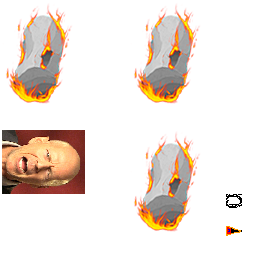
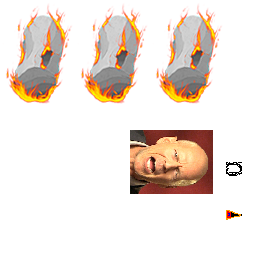
Noddegamra v.0.35

diff --git a/games/noddegamra/scripts/c3runtime.js b/games/noddegamra/scripts/c3runtime.js
@@ -441,6 +441,18 @@ self["C3_Shaders"] = {};
 
 "use strict";{function a(a){return a=Math.floor(a),8===a?"backspace":9===a?"tab":13===a?"enter":16===a?"shift":17===a?"control":18===a?"alt":19===a?"pause":20===a?"capslock":27===a?"esc":33===a?"pageup":34===a?"pagedown":35===a?"end":36===a?"home":37===a?"\u2190":38===a?"\u2191":39===a?"\u2192":40===a?"\u2193":45===a?"insert":46===a?"del":91===a?"left window key":92===a?"right window key":93===a?"select":96===a?"numpad 0":97===a?"numpad 1":98===a?"numpad 2":99===a?"numpad 3":100===a?"numpad 4":101===a?"numpad 5":102===a?"numpad 6":103===a?"numpad 7":104===a?"numpad 8":105===a?"numpad 9":106===a?"numpad *":107===a?"numpad +":109===a?"numpad -":110===a?"numpad .":111===a?"numpad /":112===a?"F1":113===a?"F2":114===a?"F3":115===a?"F4":116===a?"F5":117===a?"F6":118===a?"F7":119===a?"F8":120===a?"F9":121===a?"F10":122===a?"F11":123===a?"F12":144===a?"numlock":145===a?"scroll lock":186===a?";":187===a?"=":188===a?",":189===a?"-":190===a?".":191===a?"/":192===a?"'":219===a?"[":220===a?"\\":221===a?"]":222===a?"#":223===a?"`":String.fromCharCode(a)}C3.Plugins.Keyboard.Exps={LastKeyCode(){return this._triggerKey},StringFromKeyCode(b){return a(b)},TypedKey(){return this._typedKeyMap[this._triggerKey]||""}}}
 
+"use strict";C3.Plugins.AdvancedRandom=class extends C3.SDKPluginBase{constructor(a){super(a)}Release(){super.Release()}};
+
+"use strict";C3.Plugins.AdvancedRandom.Type=class extends C3.SDKTypeBase{constructor(a){super(a)}Release(){super.Release()}OnCreate(){}};
+
+"use strict";{class a{constructor(a){this.mode=a,this.stops=[]}AddStop(a,b){switch(this.mode){case"rgb":b=this._CreateStopRGB(b);break;case"float":b=this._CreateStopFloat(b);}for(let c=this.stops.length;c--;)if(a>this.stops[c][0])return void this.stops.splice(c+1,0,[a,b]);this.stops.push([a,b])}_CreateStopFloat(a){return[a]}_CreateStopRGB(a){const c=C3.GetRValue(a),d=C3.GetGValue(a),e=C3.GetBValue(a);return[a,c,d,e,C3.GetAValue(a)]}_SampleFloat(c,a,b){return C3.lerp(c[0],a[0],b)}_SampleRGB(c,a,b){return C3.PackRGBAEx(C3.lerp(c[1],a[1],b),C3.lerp(c[2],a[2],b),C3.lerp(c[3],a[3],b),C3.lerp(c[4],a[4],b))}Sample(c){const d=this.stops,e=d[0],f=d.length,g=d[f-1];if(c<e[0])return e[1][0];if(c>g[0])return g[1][0];let h=null,a=e;for(let b=1;b<f&&(h=a,a=d[b],!(a[0]>c));b++);switch(c=C3.clamp((c-h[0])/(a[0]-h[0]),0,1),this.mode){case"rgb":return this._SampleRGB(h[1],a[1],c);case"float":return this._SampleFloat(h[1],a[1],c);}}}C3.Plugins.AdvancedRandom.Instance=class extends C3.SDKInstanceBase{constructor(a,b){super(a),this._core=null,this._currentSeed=null,this._octaves=1,this._gradients=new Map,this._currentGradient=null;const c=b[0],d=b[1];this._CreateGradient("default","rgb"),this._AddGradientStop(0,C3.PackRGBEx(0,0,0)),this._AddGradientStop(1,C3.PackRGBEx(1,1,1)),this._runtime.AddLoadPromise(this._InitWASMModule(c,d))}async _InitWASMModule(a,b){const c=this._runtime.GetAssetManager().GetLocalUrlAsBlobUrl("noise.wasm"),d=await fetch(c),e=await WebAssembly.instantiateStreaming(d);this._core=e.instance.exports,""===a&&(a=this._RandomSeed(10)),this._UpdateSeed(a),b&&this._runtime.SetRandomNumberGeneratorCallback(()=>this._core.randomXorshiro(0,1))}_RandomSeed(a){const b=[];for(;a--;)b.push(String.fromCharCode(Math.round(Math.random()*25)+65));return b.join("")}_UpdateSeed(a){this._currentSeed=a;let b=5381;for(let c=0,d=a.length;c<d;c++)b=(b<<5)+b+a.charCodeAt(c);b>>>=0,this._core.seed(b)}_CreateGradient(b,c){const d=new a(c);this._gradients.set(b,d),this._currentGradient=d}_AddGradientStop(a,b){const c=this._currentGradient;null===c||c.AddStop(a,b)}Release(){super.Release()}}}
+
+"use strict";C3.Plugins.AdvancedRandom.Cnds={};
+
+"use strict";C3.Plugins.AdvancedRandom.Acts={SetSeed(a){this._UpdateSeed(a)},SetOctaves(a){this._octaves=C3.clamp(0|a,1,16)},CreateGradient(a,b){const c=["rgb","float"][b];this._CreateGradient(a,c)},SetGradient(a){const b=this._gradients.get(a);this._currentGradient=b||null},AddStop(a,b){this._AddGradientStop(a,b)}};
+
+"use strict";{const a=.013;C3.Plugins.AdvancedRandom.Exps={Classic2d(b,c){return this._core.classic2d(b*a,c*a,this._octaves)},Classic3d(b,c,d){return this._core.classic3d(b*a,c*a,d*a,this._octaves)},Billow2d(b,c){return this._core.billow2d(b*a,c*a,this._octaves)},Billow3d(b,c,d){return this._core.billow3d(b*a,c*a,d*a,this._octaves)},Ridged2d(b,c){return this._core.ridged2d(b*a,c*a,this._octaves)},Ridged3d(b,c,d){return this._core.ridged3d(b*a,c*a,d*a,this._octaves)},Cellular2d(b,c){return this._core.cellular2d(b*a,c*a)},Cellular3d(b,c,d){return this._core.cellular3d(b*a,c*a,d*a)},Voronoi2d(b,c){return this._core.voronoi2d(b*a,c*a)},Voronoi3d(b,c,d){return this._core.voronoi3d(b*a,c*a,d*a)},Gradient(a){const b=this._currentGradient;return null===b?0:b.Sample(a)},RandomSeed(){return this._RandomSeed(10)},Seed(){return this._currentSeed},Octaves(){return this._octaves}}}
+
 "use strict";C3.Behaviors.EightDir=class extends C3.SDKBehaviorBase{constructor(a){super(a)}Release(){super.Release()}};
 
 "use strict";C3.Behaviors.EightDir.Type=class extends C3.SDKBehaviorTypeBase{constructor(a){super(a)}Release(){super.Release()}OnCreate(){}};
@@ -539,32 +551,36 @@ self.C3_GetObjectRefTable = function () {
 		C3.Plugins.Keyboard,
 		C3.Behaviors.Flash,
 		C3.Behaviors.Pin,
+		C3.Plugins.AdvancedRandom,
 		C3.Plugins.System.Cnds.OnLayoutStart,
 		C3.Plugins.System.Acts.SetVar,
 		C3.Plugins.System.Acts.SetLayerVisible,
-		C3.Plugins.Sprite.Acts.Destroy,
-		C3.Plugins.Text.Acts.SetVisible,
-		C3.Behaviors.Pin.Acts.Pin,
 		C3.Plugins.Sprite.Acts.SetVisible,
+		C3.Plugins.Sprite.Acts.Destroy,
 		C3.Plugins.System.Cnds.EveryTick,
 		C3.Plugins.Text.Acts.SetText,
 		C3.Plugins.System.Cnds.Every,
 		C3.Plugins.System.Acts.AddVar,
-		C3.Plugins.System.Acts.CreateObject,
-		C3.Plugins.System.Exps.random,
-		C3.Plugins.Sprite.Exps.X,
-		C3.Plugins.Sprite.Exps.Y,
-		C3.Plugins.System.Cnds.CompareVar,
 		C3.Plugins.System.Cnds.IsGroupActive,
 		C3.Plugins.Sprite.Cnds.OnCreated,
+		C3.Plugins.Sprite.Acts.SetScale,
+		C3.Plugins.System.Exps.random,
 		C3.Plugins.Sprite.Acts.SetPos,
 		C3.Behaviors.Bullet.Acts.SetSpeed,
 		C3.Behaviors.Bullet.Exps.Speed,
+		C3.Plugins.System.Acts.CreateObject,
+		C3.Plugins.System.Cnds.CompareVar,
 		C3.Plugins.Sprite.Cnds.CompareY,
+		C3.Plugins.Sprite.Exps.Y,
 		C3.Plugins.Sprite.Acts.RotateTowardPosition,
-		C3.Plugins.Sprite.Acts.SetScale,
+		C3.Plugins.Sprite.Exps.X,
+		C3.Plugins.Sprite.Acts.SetPosToObject,
 		C3.Plugins.Sprite.Cnds.OnCollision,
+		C3.Plugins.Sprite.Cnds.OnDestroyed,
 		C3.Plugins.System.Acts.SubVar,
+		C3.Plugins.System.Acts.SetGroupActive,
+		C3.Plugins.Sprite.Cnds.IsOnScreen,
+		C3.Plugins.System.Cnds.Else,
 		C3.Behaviors.EightDir.Acts.SetEnabled,
 		C3.Plugins.Keyboard.Cnds.OnKey,
 		C3.Plugins.System.Cnds.LayerVisible,
@@ -691,43 +707,39 @@ p => {
 const v0 = p._GetNode(0).GetVar();
 return () => (1 * v0.GetValue());
 },
-() => 1.5,
+() => 0.1,
+() => "Появление и поведение мусора",
+p => {
+const f0 = p._GetNode(0).GetBoundMethod();
+return () => f0(0.5, 2);
+},
 p => {
 const f0 = p._GetNode(0).GetBoundMethod();
 return () => Math.floor(f0(38, 810));
 },
 p => {
 const f0 = p._GetNode(0).GetBoundMethod();
-return () => Math.floor(f0(560, 570));
+return () => Math.floor(f0(550, 585));
 },
 p => {
 const n0 = p._GetNode(0);
-return () => n0.ExpObject();
+const v1 = p._GetNode(1).GetVar();
+return () => (n0.ExpBehavior() * v1.GetValue());
 },
-p => {
-const n0 = p._GetNode(0);
-return () => (n0.ExpObject() + 500);
-},
-() => 0.1,
+() => 1.5,
+() => "Появление и поведение ракеты",
 () => 4,
 () => 30,
 p => {
 const f0 = p._GetNode(0).GetBoundMethod();
 return () => Math.floor(f0(550, 560));
 },
-() => "Появление и поведение ракеты",
 p => {
 const n0 = p._GetNode(0);
-const v1 = p._GetNode(1).GetVar();
-return () => (n0.ExpBehavior() * v1.GetValue());
+return () => n0.ExpObject();
 },
-() => 450,
-() => 0.8,
-p => {
-const f0 = p._GetNode(0).GetBoundMethod();
-return () => f0(0.5, 2);
-},
-() => "Столкновения целого метеорита",
+() => 0.9,
+() => "Meteor Collision",
 p => {
 const n0 = p._GetNode(0);
 const f1 = p._GetNode(1).GetBoundMethod();
@@ -748,12 +760,8 @@ const n0 = p._GetNode(0);
 const f1 = p._GetNode(1).GetBoundMethod();
 return () => (n0.ExpObject() + f1((-10), 10));
 },
-p => {
-const n0 = p._GetNode(0);
-const f1 = p._GetNode(1).GetBoundMethod();
-return () => (n0.ExpObject() - f1(30, 50));
-},
-() => "Столкновения половины метеорита",
+() => "HalfMeteor Collision",
+() => "QuaterMeteor Collision",
 p => {
 const n0 = p._GetNode(0);
 return () => (n0.ExpObject() - 10);
@@ -770,25 +778,11 @@ p => {
 const n0 = p._GetNode(0);
 return () => (n0.ExpObject() + 1);
 },
-p => {
-const n0 = p._GetNode(0);
-return () => (n0.ExpObject() + 3);
-},
-p => {
-const n0 = p._GetNode(0);
-return () => (n0.ExpObject() - 2);
-},
-() => "Столкновения четверти метеорита",
 () => "Конец игры и перезапуск",
-() => 20,
-() => "КПП 1, у нас проблема. Вижу движущийся объект. Что делать?",
-() => 25,
-() => "ПУСКАЙ РАКЕТЫ!!!11",
-() => 80,
-() => "Его ничто не остановит… ВЫПУСКАЙТЕ БРЮСА!!",
 () => 100,
 () => 400,
-() => 550
+() => 550,
+() => 450
 	];
 }
 
